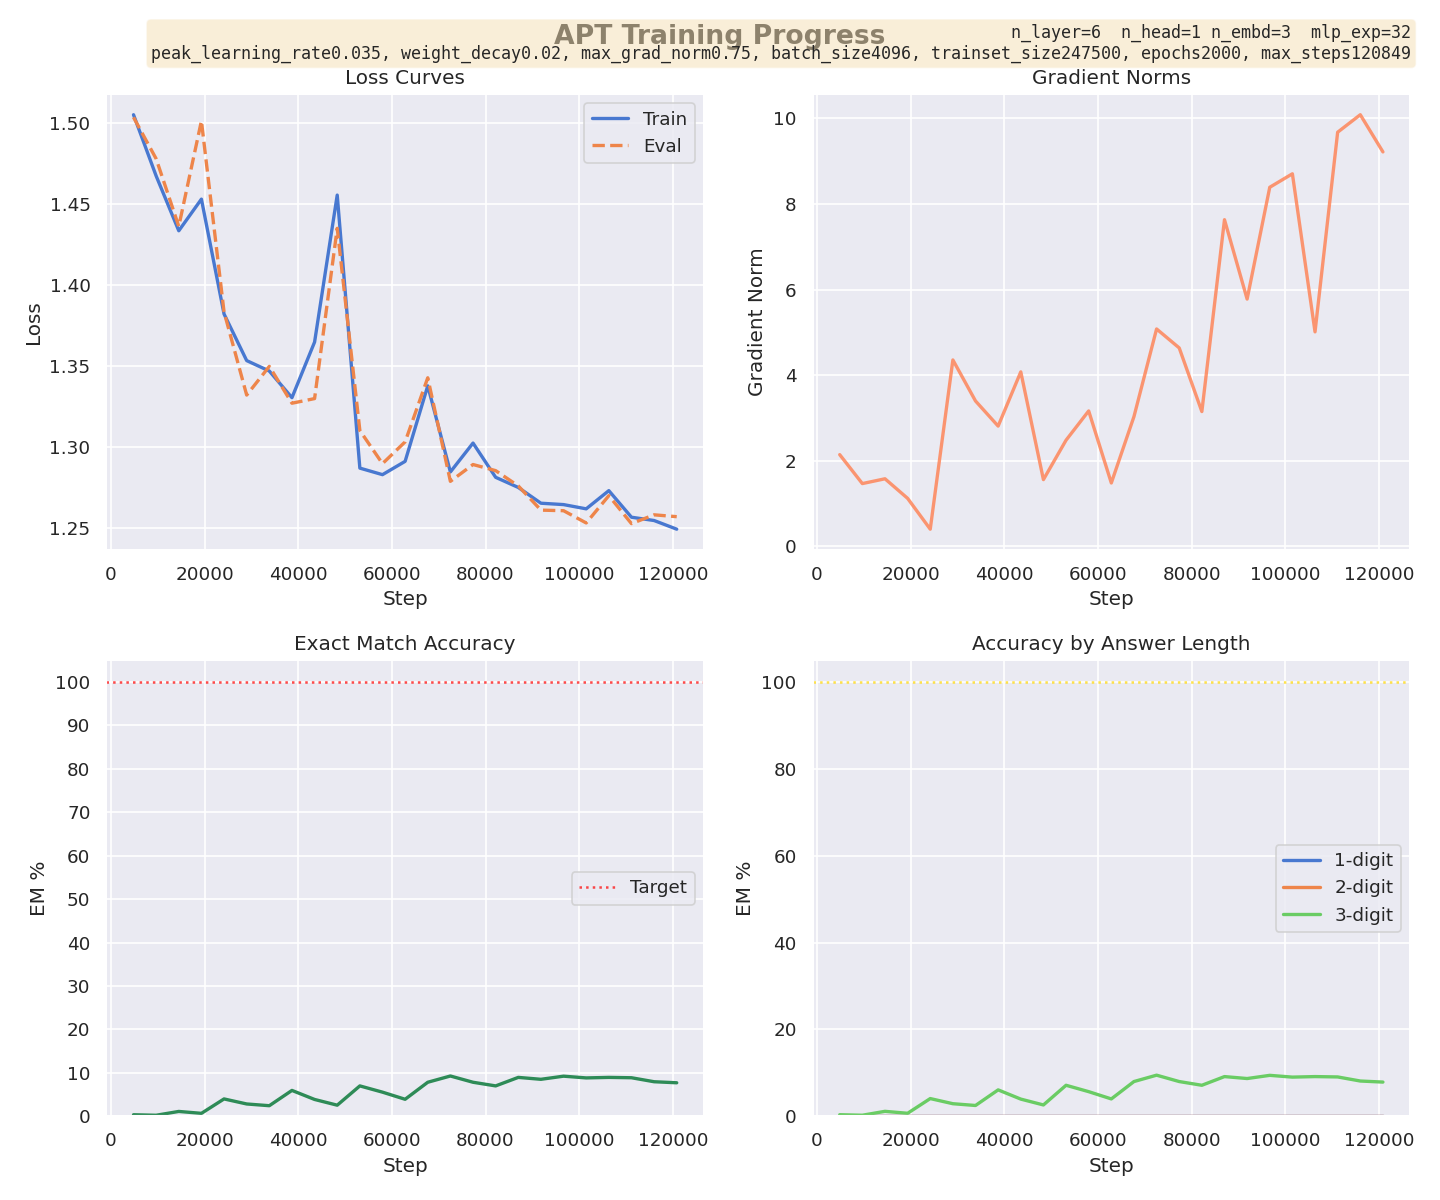
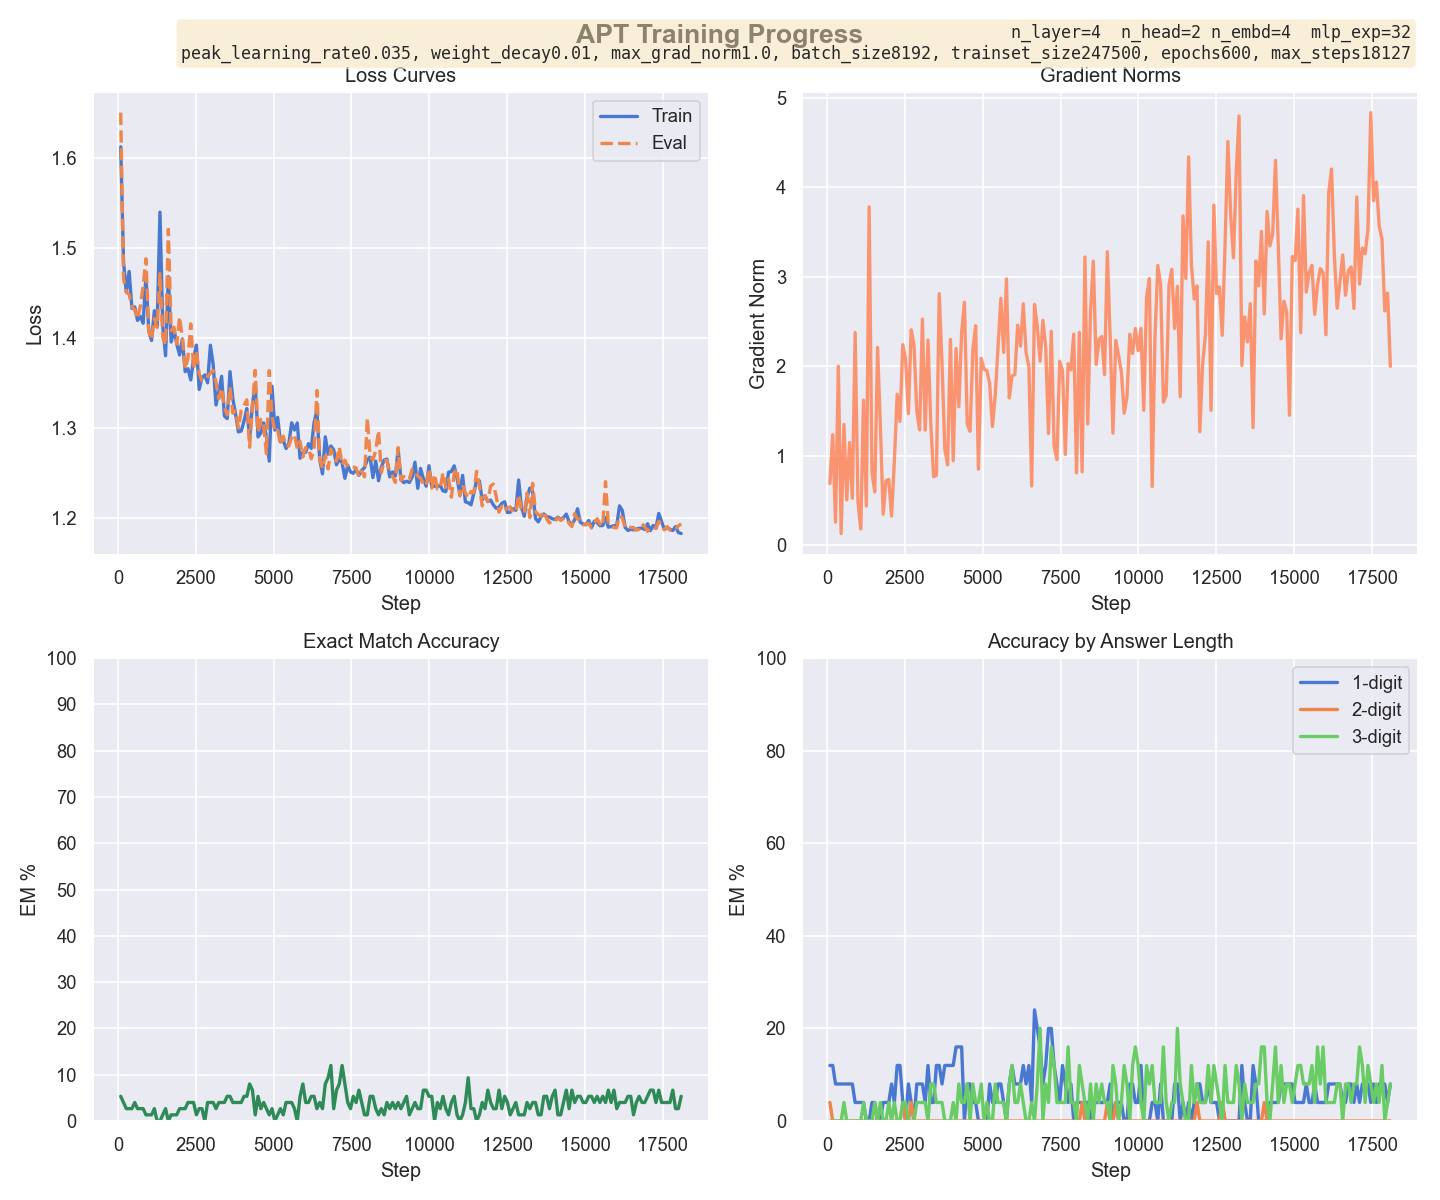
save progress

diff --git a/src/evaluation.py b/src/evaluation.py
@@ -4,6 +4,10 @@
 import time
 import os
 import pickle
+from collections import Counter
+import json, random
+from collections import defaultdict
+
 
 # External imports
 import torch
@@ -22,6 +26,33 @@ torch.set_printoptions(sci_mode=False)
 # from torch.utils.tensorboard import SummaryWriter
 # writer = SummaryWriter()
 
+def make_balanced_eval_lists(data_location, n_per_bucket=25, seed=42):
+    """
+    Returns (train_raw, eval_prompts, eval_ground_truths).
+    Stratifies by answer digit count so every bucket has equal eval samples.
+    Caps each bucket at half its size so we never starve training of a class.
+    """
+    with open(data_location, 'r') as f:
+        all_data = json.load(f)
+
+    buckets = defaultdict(list)
+    for elt in all_data:
+        buckets[len(elt.split('=')[1])].append(elt)
+
+    rng = random.Random(seed)
+    eval_raw, train_raw = [], []
+    for n_digits in sorted(buckets):
+        items = buckets[n_digits]
+        rng.shuffle(items)
+        take = min(n_per_bucket, len(items) // 2)
+        eval_raw.extend(items[:take])
+        train_raw.extend(items[take:])
+        print(f"  {n_digits}-digit: {take} eval / {len(items) - take} train (of {len(items)} total)")
+
+    rng.shuffle(train_raw)
+    eval_prompts       = [e.split("=")[0] + "=" for e in eval_raw]
+    eval_ground_truths = list(eval_raw)
+    return train_raw, eval_prompts, eval_ground_truths
 
 
 
@@ -92,6 +123,8 @@ def eval_parallel_claude(
     correct = {1: 0, 2: 0, 3: 0}
     total = {1: 0, 2: 0, 3: 0}
     num_correct = 0
+    # print(Counter(len(gt.split('=')[1]) for gt in eval_ground_truths))
+
     
     for gt, ids in zip(eval_ground_truths, tokens):
         answer = gt.split('=')[1]
@@ -108,5 +141,63 @@ def eval_parallel_claude(
     if print_incorrect:
         print(f"Out of {len(eval_prompts)} questions, APT got {num_correct} correct.")
     
-    acc_by_digits = {k: 100 * correct[k] / total[k] if total[k] > 0 else 0 for k in [1, 2, 3]}
+    acc_by_digits = {k: 100 * correct[k] / total[k] if total[k] > 0 else None for k in [1, 2, 3]}
+    return num_correct / len(eval_prompts), acc_by_digits
+
+@torch.inference_mode()
+def eval_matched_padding(
+    model,
+    eval_prompts,
+    eval_ground_truths,
+    max_answer_len=3,
+    print_incorrect=False,
+):
+    """
+    Drop-in replacement for eval_parallel_claude that matches training-time
+    positional alignment by grouping prompts by length instead of left-padding.
+    """
+    model.eval()
+
+    # Tokenize per-prompt (no padding) and bucket by length
+    groups = defaultdict(list)  # prompt_len -> [(orig_idx, ids_list), ...]
+    for i, prompt in enumerate(eval_prompts):
+        ids = model.tokenizer(prompt)["input_ids"]
+        if hasattr(ids, "tolist"):
+            ids = ids.tolist()
+        if isinstance(ids[0], list):  # tokenizer wrapped a single example in a batch
+            ids = ids[0]
+        groups[len(ids)].append((i, ids))
+
+    predictions = [None] * len(eval_prompts)
+
+    for prompt_len, items in groups.items():
+        idxs   = [it[0] for it in items]
+        tokens = torch.tensor([it[1] for it in items], dtype=torch.long, device=model.device)
+
+        # Greedy-generate max_answer_len tokens; we only consume what each example needs
+        for _ in range(max_answer_len):
+            logits, _ = model(tokens)
+            next_tok  = logits[:, -1, :].argmax(-1, keepdim=True)
+            tokens    = torch.cat([tokens, next_tok], dim=1)
+
+        for row, idx in enumerate(idxs):
+            gt        = eval_ground_truths[idx]
+            n_answer  = len(gt.split('=')[1])
+            pred_ids  = tokens[row, : prompt_len + n_answer].tolist()
+            pred      = "".join(model.tokenizer.batch_decode(pred_ids, skip_special_tokens=True))
+            predictions[idx] = pred
+
+    correct = {1: 0, 2: 0, 3: 0}
+    total   = {1: 0, 2: 0, 3: 0}
+    num_correct = 0
+    for gt, pred in zip(eval_ground_truths, predictions):
+        n = len(gt.split('=')[1])
+        total[n] += 1
+        if pred == gt:
+            num_correct += 1
+            correct[n]  += 1
+        elif print_incorrect:
+            print(gt, pred)
+
+    acc_by_digits = {k: 100 * correct[k] / total[k] if total[k] > 0 else None for k in [1, 2, 3]}
     return num_correct / len(eval_prompts), acc_by_digits

diff --git a/apt_train_3digits.py b/apt_train_3digits.py
@@ -12,7 +12,7 @@ from tqdm import tqdm
 from src.arithmetic_pretrained_transformer import APT, APTConfig, DataLoaderLite, DataLoaderPyTorch
 from src.arithmetic_tokenizer import ArithmeticTokenizer
 from src.async_realtime_plots import plot_async
-from src.evaluation import eval_naive, eval_parallel, eval_parallel_claude
+from src.evaluation import eval_naive, eval_parallel, eval_parallel_claude, make_balanced_eval_lists, eval_matched_padding
 
 # Environment prep
 torch.manual_seed(42)
@@ -42,9 +42,9 @@ data_location = 'datasets/no_bos_no_eos/499by499.json'
 tokenizer = ArithmeticTokenizer(vocab_path, max_length=num_tokens_per_sample, padding="max_length")
 config = APTConfig(vocab_size=len(tokenizer._id_tokens),
                    block_size=num_tokens_per_sample,
-                   n_layer=6,
-                   n_head=1,
-                   n_embd=3,
+                   n_layer=4,
+                   n_head=2,
+                   n_embd=4,
                    mlp_expansion_factor=32,
                    bias=True,
                    pos_embd='learned',
@@ -62,12 +62,12 @@ model.tokenizer = tokenizer
 #6,1,3,32 goes to 1.2769 on 600 epochs
 
 # HYPERPARAMETERS AND UTILITIES FOR TRAINING, EVAL DATASET PREP
-batch_size = 4096 #131072 #65536 #32768 #16384 #8192 #4096 #2048 #1024 works?
+batch_size = 8192 #131072 #65536 #32768 #16384 #8192 #4096 #2048 #1024 works?
 peak_learning_rate = 0.035 #0.04
 min_learning_rate = 0.005
-weight_decay = 0.02
-max_grad_norm = 0.75
-epochs = int(2000 * 1)
+weight_decay = 0.01
+max_grad_norm = 1.0
+epochs = int(600 * 1)
 
 train_loader = DataLoaderPyTorch(
     B=batch_size, 
@@ -80,7 +80,7 @@ train_loader = DataLoaderPyTorch(
 
 trainset_size = train_loader.trainset_size
 max_steps = epochs * (trainset_size) // batch_size
-eval_intervals = max_steps // 25
+eval_intervals = max_steps // 200
 
 train_hparam_dict = {
     "peak_learning_rate": peak_learning_rate,
@@ -102,12 +102,13 @@ print(f"Total number of parameters in model: {pytorch_total_params:,}")
 print(f"max_steps: {max_steps}, eval_intervals: {eval_intervals}, learning_rate: {peak_learning_rate}")
 
 
-# Prepare for eval and metric tracking
-eval_prompts = []
-eval_ground_truths = []
-for elt in train_loader.eval_raw:
-    eval_prompts.append(elt.split("=")[0] + "=")
-    eval_ground_truths.append(elt)
+# Build balanced eval lists once, before the training loop
+_, eval_prompts, eval_ground_truths = make_balanced_eval_lists(
+    data_location, n_per_bucket=25
+)
+# Sanity check
+print({len(g.split('=')[1]): sum(1 for x in eval_ground_truths if len(x.split('=')[1]) == len(g.split('=')[1])) for g in eval_ground_truths})
+
 
 losses_train = []
 losses_eval = []
@@ -138,7 +139,8 @@ for step in tqdm(range(max_steps), dynamic_ncols=True):
             x_eval, y_eval = x_eval.to(device), y_eval.to(device)
             logits_eval, loss_eval = model(x_eval, y_eval)
             # writer.add_scalar("Loss/eval", loss_eval.item(), step)
-            em_score, acc_by_digits = eval_parallel_claude(model, eval_prompts, eval_ground_truths)
+            # em_score, acc_by_digits = eval_parallel_claude(model, eval_prompts, eval_ground_truths)
+            em_score, acc_by_digits = eval_matched_padding(model, eval_prompts, eval_ground_truths)
             em_score_reading_parallel = em_score * 100
 
             acc_1d_list.append(acc_by_digits[1])

diff --git a/src/async_realtime_plots.py b/src/async_realtime_plots.py
@@ -1,5 +1,8 @@
 # plotting.py
+import matplotlib
+matplotlib.use('Agg') # Forces a non-GUI backend
 import matplotlib.pyplot as plt
+
 import seaborn as sns
 import numpy as np
 from concurrent.futures import ThreadPoolExecutor
@@ -35,22 +38,22 @@ def _plot(steps, losses_train, losses_eval, norms, accuracies, acc_1d, acc_2d, a
     ax2.set_title('Gradient Norms')
     
     ax3.plot(steps, accuracies, color='seagreen', linewidth=2)
-    ax3.axhline(y=100, color='red', linestyle=':', alpha=0.7, label='Target')
+    # ax3.axhline(y=100, color='red', linestyle=':', alpha=0.7, label='Target')
     ax3.set_xlabel('Step')
     ax3.set_ylabel('EM %')
     ax3.set_title('Exact Match Accuracy')
     ax3.set_ylim(bottom=0)
     ax3.set_yticks(np.arange(0, 110, step=10))
-    ax3.legend(frameon=True)
+    # ax3.legend(frameon=True)
     
     ax4.plot(steps, acc_1d, label='1-digit', linewidth=2)
     ax4.plot(steps, acc_2d, label='2-digit', linewidth=2)
     ax4.plot(steps, acc_3d, label='3-digit', linewidth=2)
-    ax4.axhline(y=100, color='gold', linestyle=':', alpha=0.7)
+    # ax4.axhline(y=100, color='gold', linestyle=':', alpha=0.7)
     ax4.set_xlabel('Step')
     ax4.set_ylabel('EM %')
     ax4.set_title('Accuracy by Answer Length')
-    ax4.set_ylim(bottom=0)
+    ax4.set_ylim(bottom=0, top=100)
     ax4.legend(frameon=True)
 
     

diff --git a/src/arithmetic_pretrained_transformer.py b/src/arithmetic_pretrained_transformer.py
@@ -167,7 +167,6 @@ class APT(nn.Module):
         super().__init__()
         self.config = config
         print("Add different options for learned vs rotational vs alibi positional encodings!!!")
-        print("Swap layernorm to RMSNorm!")
 
         self.transformer = nn.ModuleDict(dict(
             wte = nn.Embedding(num_embeddings=config.vocab_size, embedding_dim=config.n_embd), # weight token embeddings
